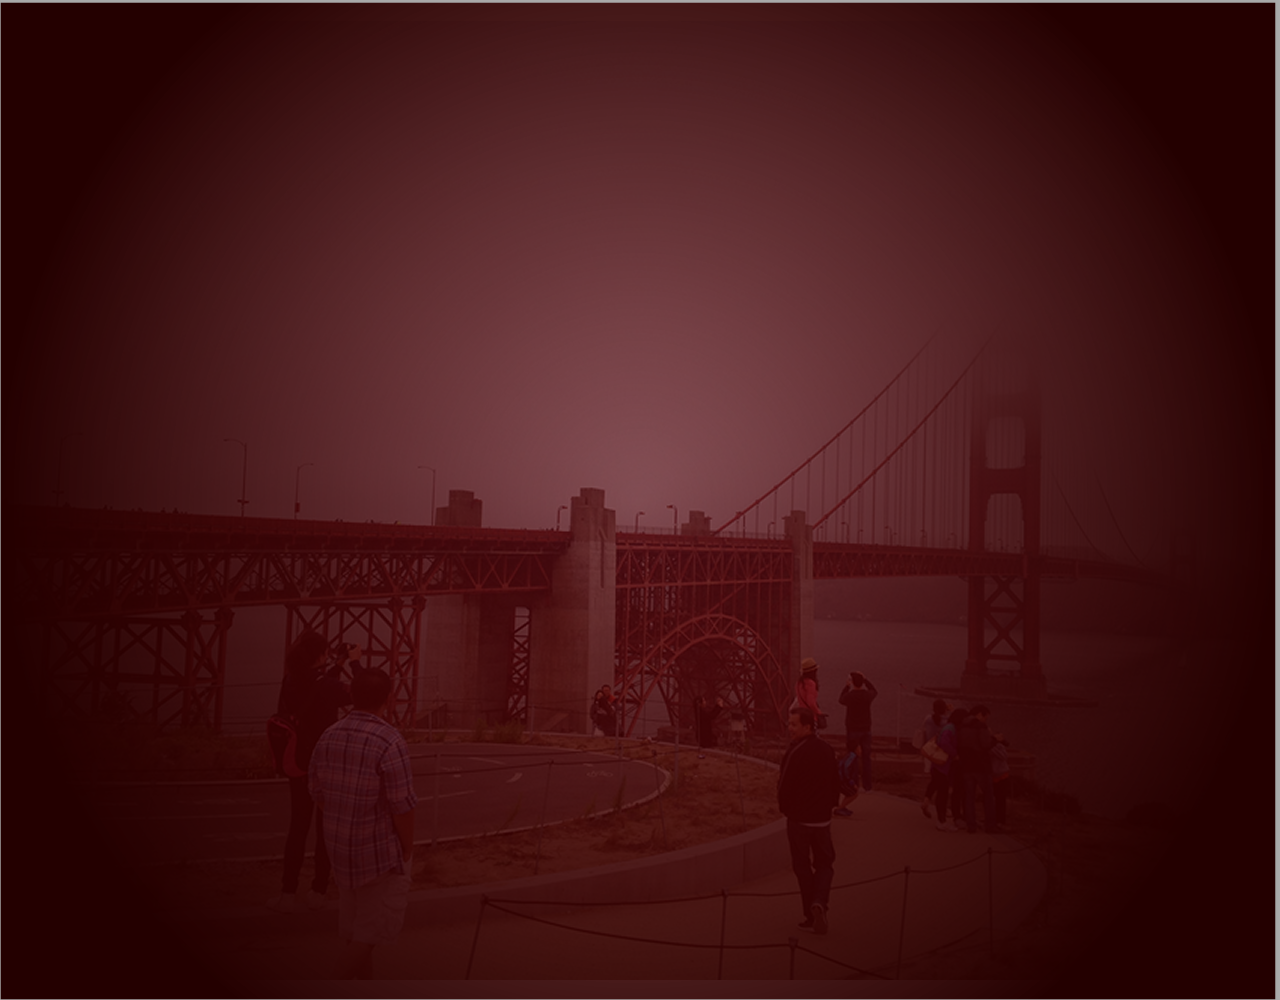
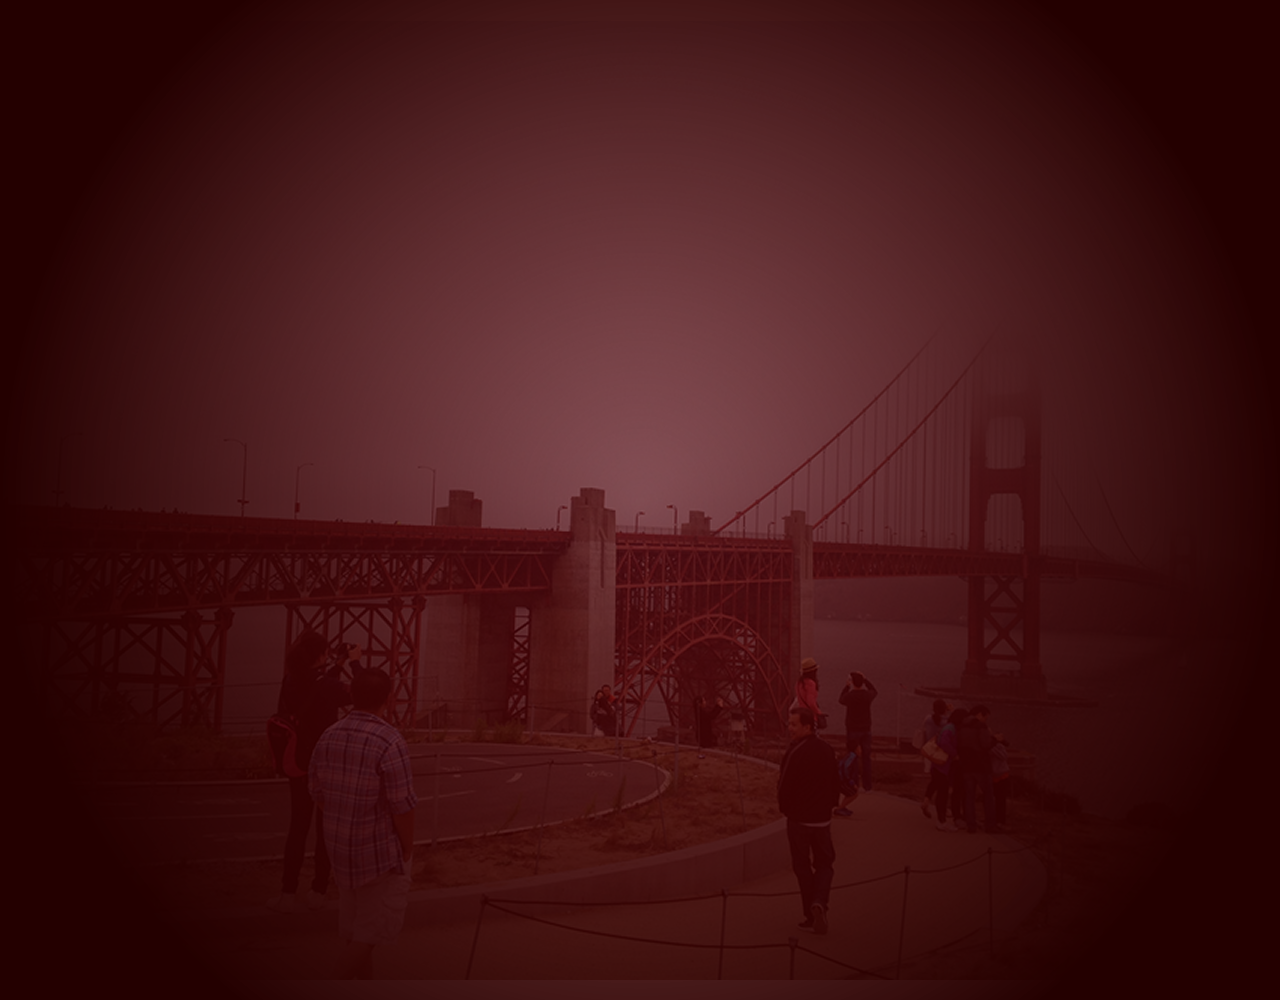
Modified Jun's story backgrounds

Changed region(s): [[0.0, 0.0, 1.0, 1.0], [0.0, 0.0, 0.0312, 0.031]]

diff --git a/css/main_style.css b/css/main_style.css
@@ -496,9 +496,8 @@ a { color: #4a4237; -webkit-transition: all .1s ease-in-out; -moz-transition: al
 
     #allan_a_martin {
 	    height: 750px;
-	    background: #000066 url('../images/allanamartin.jpg') center center no-repeat fixed;
-/*		background: #515963;
-*/	    border-top: 7px solid #000;
+	    background: #002420 url('../images/allanamartin.jpg') center center no-repeat fixed;
+	    border-top: 7px solid #000;
 	}
 
 		#allan_a_martin h6 {
@@ -565,8 +564,7 @@ a { color: #4a4237; -webkit-transition: all .1s ease-in-out; -moz-transition: al
 	    }
 
 	    #allan_a_martin #allan_a_martin-img {
-/*	        background: url('../images/wade-cropped.png') no-repeat;
-*/            width: 671px;
+            width: 671px;
             height: 989px;
             position: absolute;
             right: -80px;
@@ -582,8 +580,7 @@ a { color: #4a4237; -webkit-transition: all .1s ease-in-out; -moz-transition: al
     #jun_high_school {
 	    height: 897px;
 	    background: #281600 url('../images/portcredit.jpg') center center no-repeat fixed;
-/*		background: #220363;
-*/	    border-top: 7px solid #0d0d16;
+	    border-top: 7px solid #0d0d16;
 	}
 
 	    #jun_high_school #jun_high_school-img1 {
@@ -764,9 +761,8 @@ a { color: #4a4237; -webkit-transition: all .1s ease-in-out; -moz-transition: al
 
 	#jun_workforce {
 		height: 1400px;
-		background: #3b0300 url('../images/workforce.jpg') center center no-repeat fixed;
-/*		background-color: #292929;
-*/	    border-top: 7px solid #595959;
+		background: #240000 url('../images/workforce.jpg') center center no-repeat fixed;
+	    border-top: 7px solid #595959;
 	}
 	    #jun_workforce #jun_workforce-h6 {
 	        position: absolute;
@@ -910,7 +906,7 @@ a { color: #4a4237; -webkit-transition: all .1s ease-in-out; -moz-transition: al
 		#jun_workforce #lumos-img {
 	        position: absolute;
 	        top: 1200px;
-	        left: 600px;
+	        left: 700px;
 	    }
 
 	    	#jun_workforce #lumos-img img {
